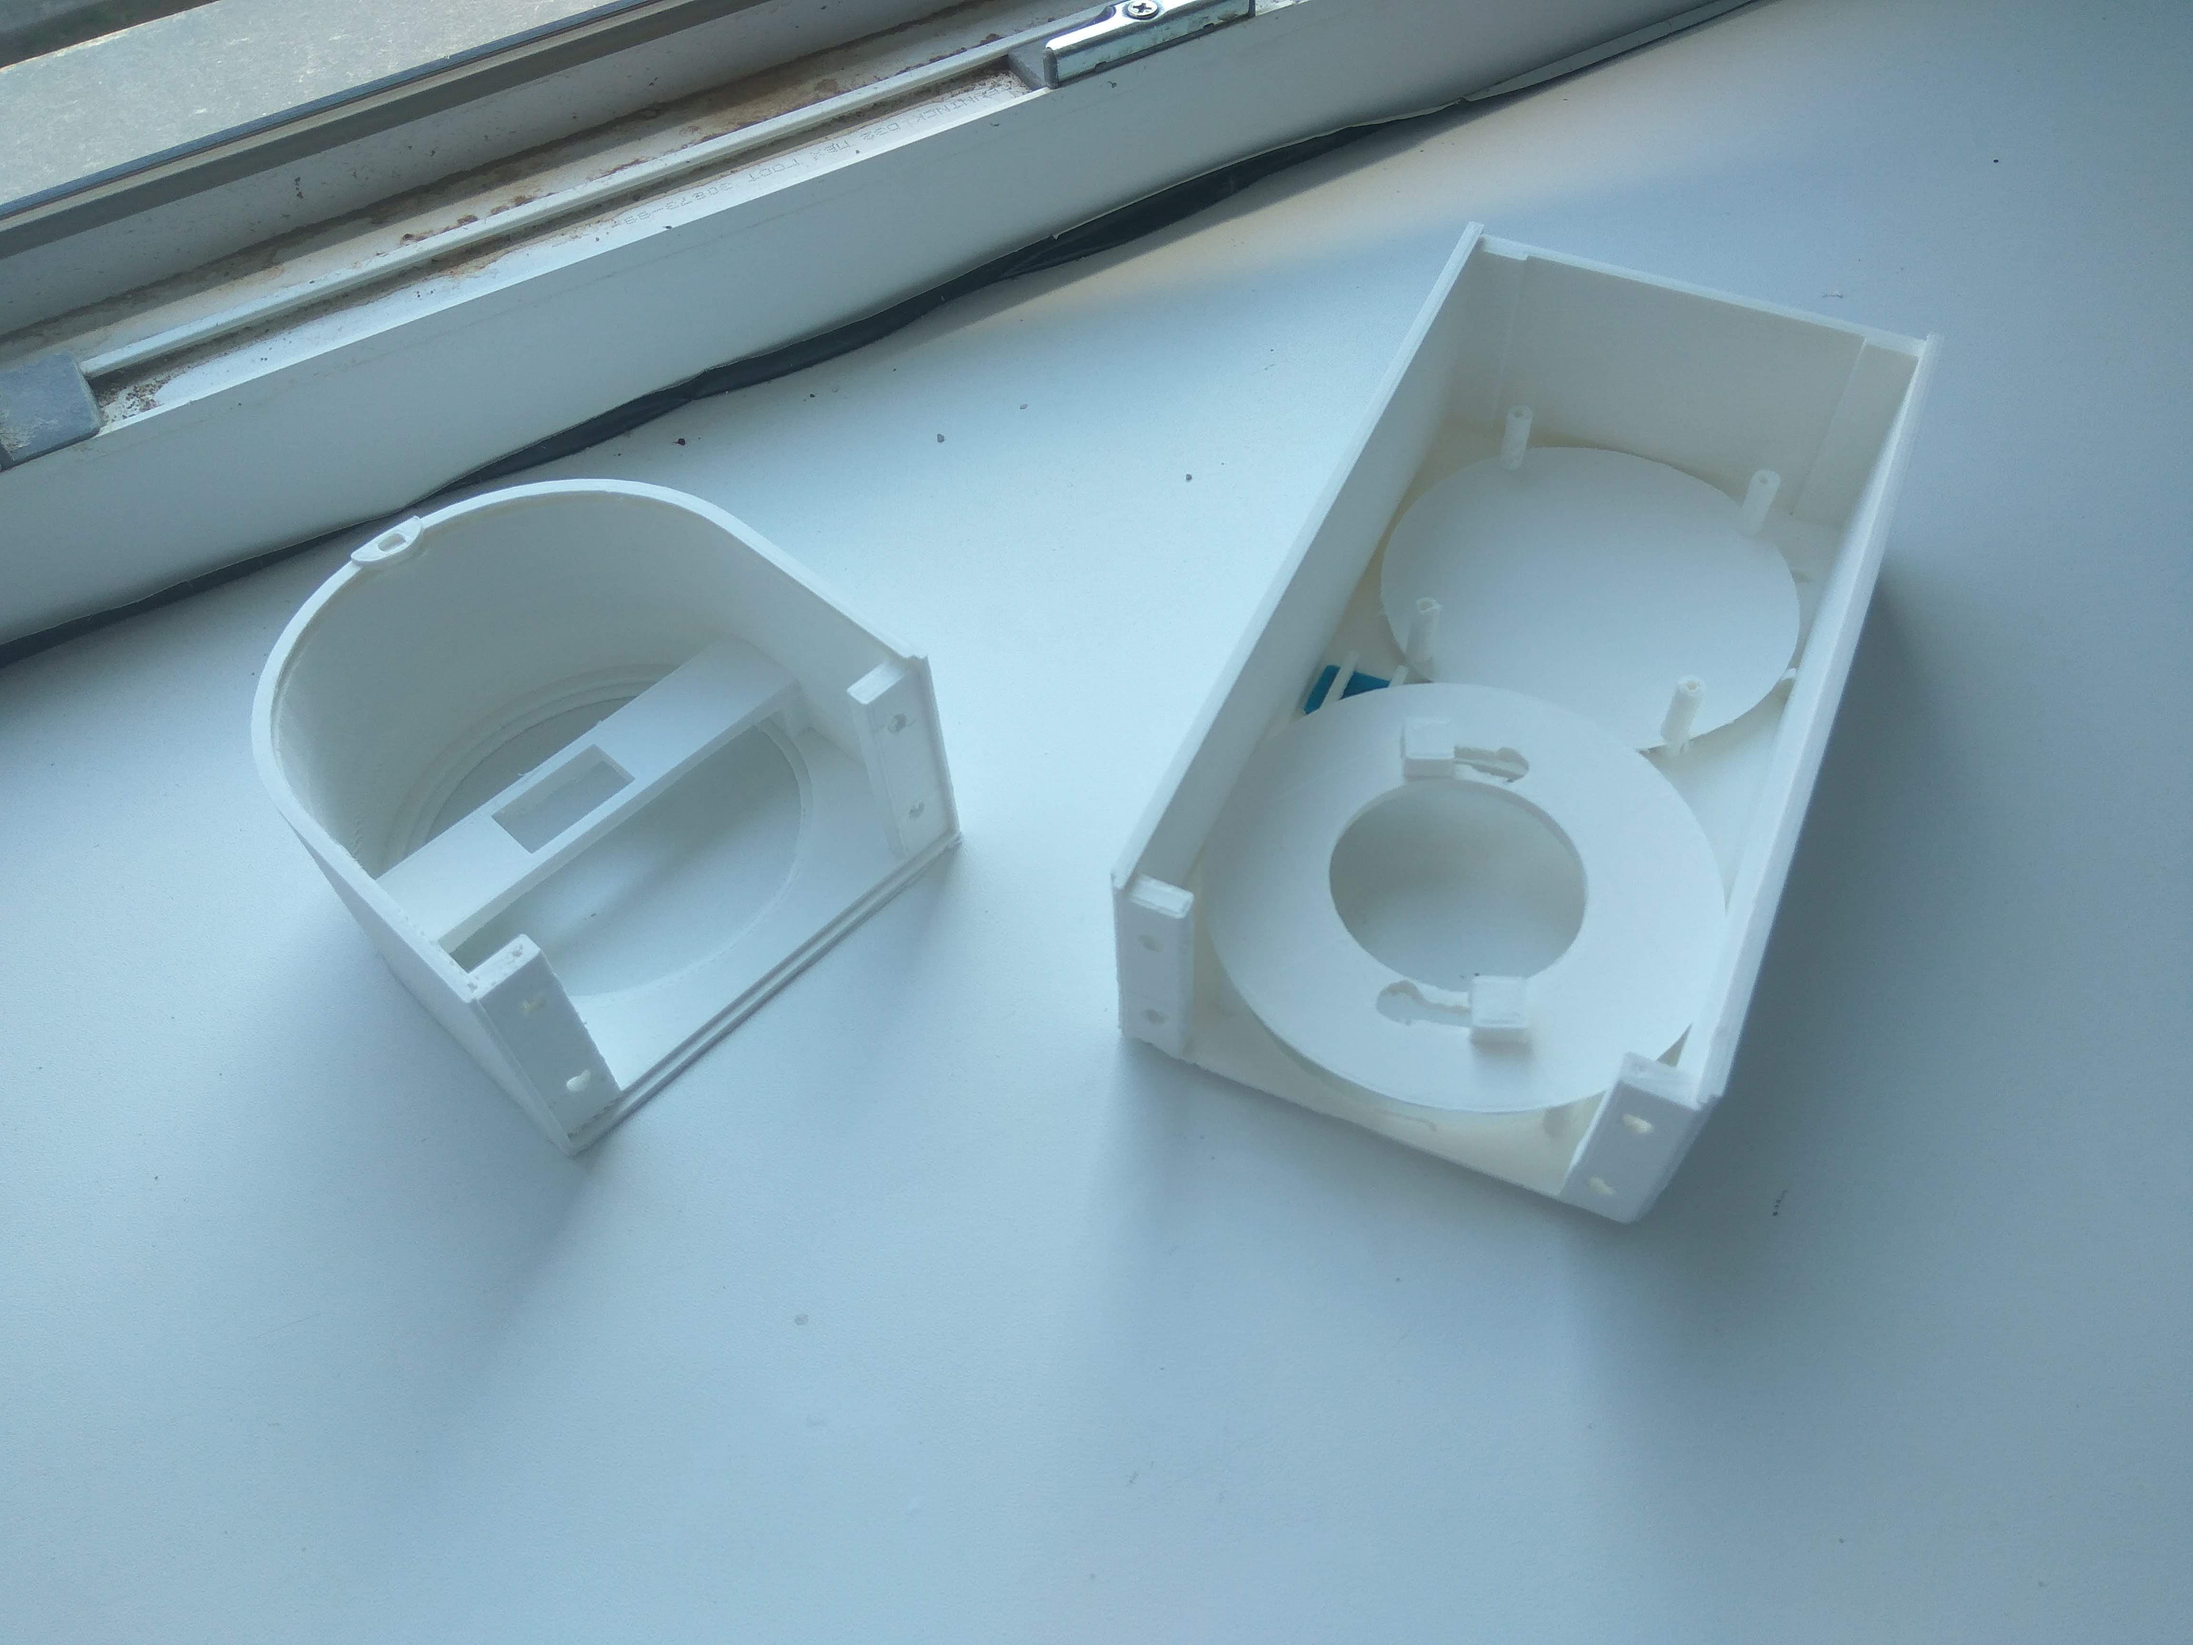
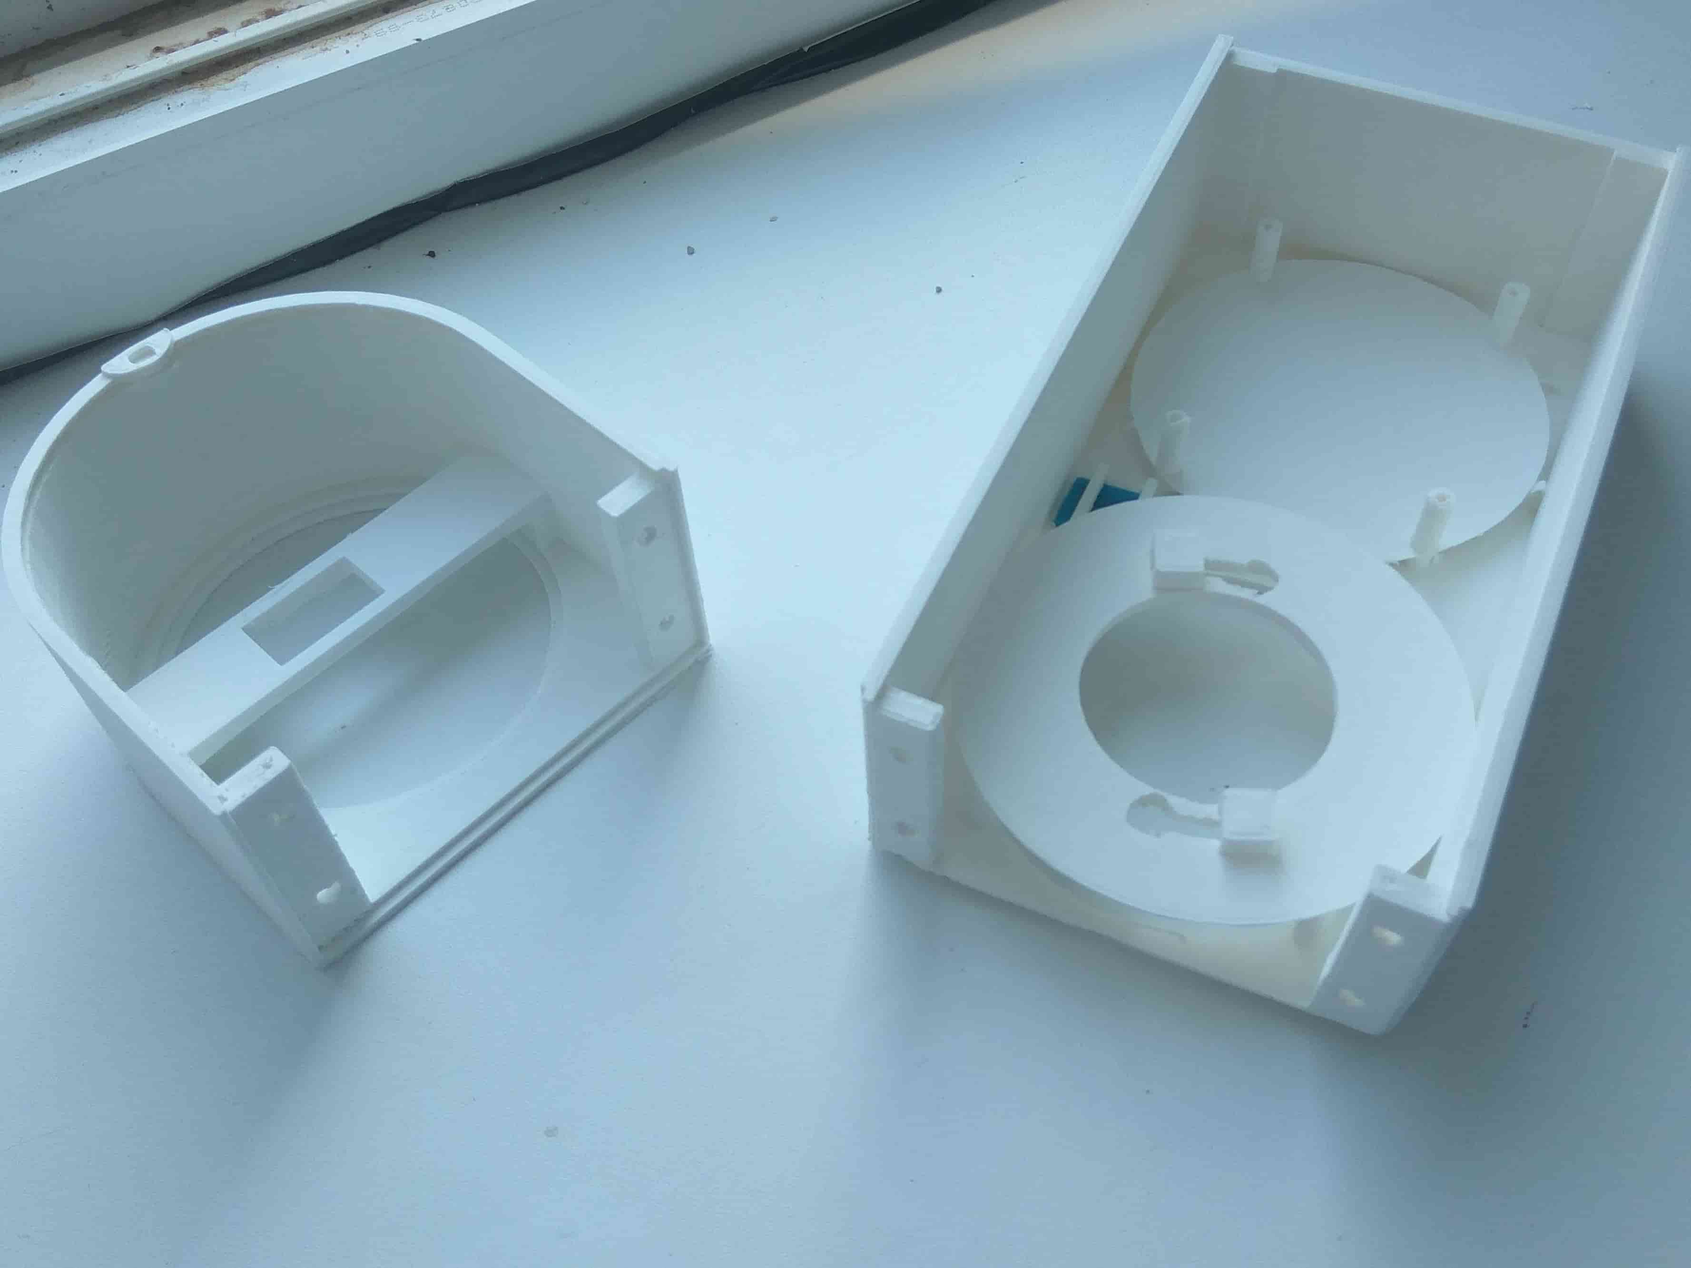
perf: optimize and reduce image file sizes

diff --git a/_posts/2018-09-21-crimecamera.md b/_posts/2018-09-21-crimecamera.md
@@ -35,7 +35,7 @@ My role on the project concerned the electrical and mechanical engineering of th
 - a four-microphone array for acoustic source localization;
 - a Raspberry Pi paired with an Intel Movidius neural compute stick for on-device inference.
 
-![Exploded diagram of the Smart Light station's 3D-printed body, showing the outside and inside views](light-station-diagram.jpg)
+![Exploded diagram of the Smart Light station's 3D-printed body, showing the outside and inside views](light-station-diagram.webp)
 
 ![3D-printed enclosure with the camera mounting ring and internal brackets installed](enclosure-camera-mount.jpg)
 
